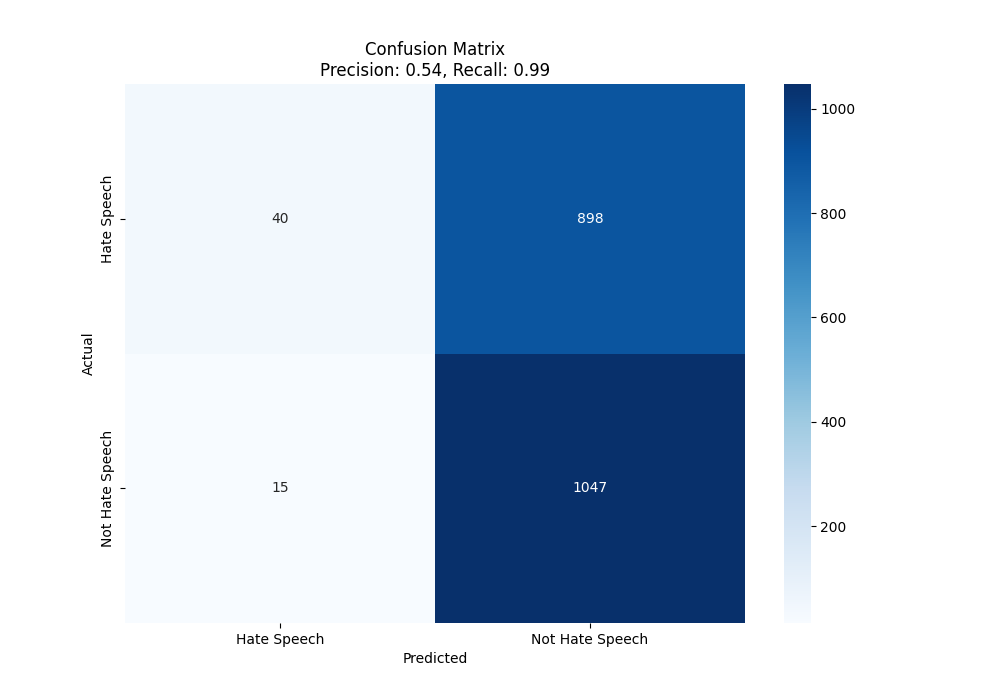
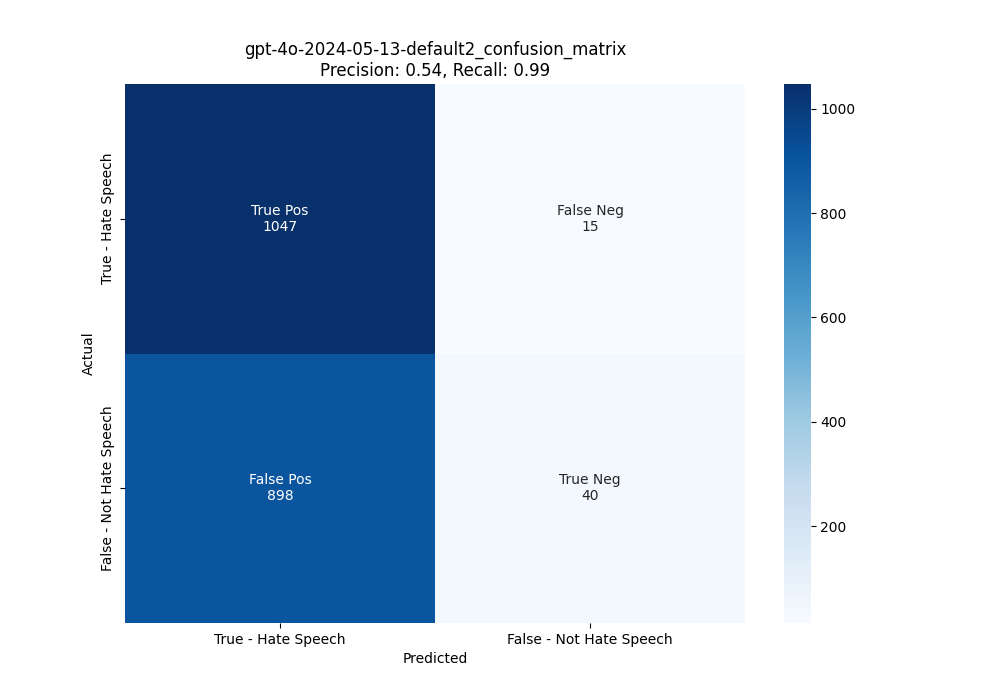
update confusion matrix for the better look

diff --git a/main.py b/main.py
@@ -18,6 +18,7 @@ from sklearn.metrics import confusion_matrix
 from sklearn.metrics import precision_score, recall_score
 import matplotlib.pyplot as plt
 import seaborn as sns
+import numpy as np
 
 
 def format_timespan(seconds):
@@ -168,7 +169,7 @@ def evaluate(csv_path="results/[HateSpeech] gpt-4o-mini-2024-08-13.csv"):
 
     plot_path = f"results/{MODEL_NAME}-{MODEL_VERSION}_confusion_matrix.png"
     # Plot the confusion matrix
-    plot_confusion_matrix(plot_path, precision, recall, cm, labels=['Hate Speech', 'Not Hate Speech'])
+    plot_confusion_matrix(plot_path, precision, recall, cm, labels=['True - Hate Speech', 'False - Not Hate Speech'])
 
     
     category_big_count = result.groupby(['category_big']).agg(
@@ -182,12 +183,20 @@ def evaluate(csv_path="results/[HateSpeech] gpt-4o-mini-2024-08-13.csv"):
     category_count.to_csv(f"evals/[HateSpeech] eval-{filename}.csv", index=False)
     category_big_count.to_csv(f"evals/[HateSpeech] eval-avg-{filename}.csv", index=False)
 
-def plot_confusion_matrix(plot_path, precision, recall, cm, labels):
+def plot_confusion_matrix(plot_path,  precision, recall, cm, labels):
+    group_name = ['True Pos','False Neg','False Pos','True Neg']
+    group_counts = ["{0:0.0f}".format(value) for value in
+                    cm.flatten()]
+    maplabels = [f"{v1}\n{v2}" for v1, v2 in
+            zip(group_name,group_counts)]
+    maplabels = np.asarray(maplabels).reshape(2,2)
     plt.figure(figsize=(10, 7))
-    sns.heatmap(cm, annot=True, fmt='d', cmap='Blues', xticklabels=labels, yticklabels=labels)
+    sns.heatmap(cm, annot=maplabels, fmt='', cmap='Blues', xticklabels=labels, yticklabels=labels)
+    #sns.heatmap(cm, annot=True, fmt='d', cmap='Blues', xticklabels=labels, yticklabels=labels)
     plt.xlabel('Predicted')
     plt.ylabel('Actual')
-    plt.title(f'Confusion Matrix\nPrecision: {precision:.2f}, Recall: {recall:.2f}')
+    plot_title = plot_path.replace("results/", "").replace(".png", "")
+    plt.title(f'{plot_title}\nPrecision: {precision:.2f}, Recall: {recall:.2f}')
     plt.savefig(plot_path)
     plt.close()
 

diff --git a/README.md b/README.md
@@ -67,7 +67,11 @@ The code is reused https://github.com/daekeun-ml/evaluate-llm-on-korean-dataset,
 |**Hate Speech**    |-                                        |**390**           |**0.416**        |**40**            |**0.043**      |**7**             |**0.007**        |
 |**Not Hate Speech**|-                                        |**134**           |**0.126**        |**15**            |**0.014**        |**1**             |**0.001**        |
 
+![Confusion Matrix of the gpt-4o content filtering - low](results/gpt-4o-2024-05-13-low_confusion_matrix.png)
+
 ![Confusion Matrix of the gpt-4o content filtering - default2](results/gpt-4o-2024-05-13-default2_confusion_matrix.png)
+
+![Confusion Matrix of the gpt-4o content filtering - high](results/gpt-4o-2024-05-13-high_confusion_matrix.png)
 
 ### GPT-4o-mini
 
@@ -121,7 +125,11 @@ The code is reused https://github.com/daekeun-ml/evaluate-llm-on-korean-dataset,
 |**Hate Speech**    |-                                        |**562**          |**0.599** |**54**      |**0.058** |**13**            |**0.014** |
 |**Not Hate Speech**|-                                        |**257**          |**0.242** |**23**      |**0.022** |**3**             |**0.003** |
 
+![Confusion Matrix of the gpt-4o-mini content filtering - Low](results/gpt-4o-mini-2024-07-18-low_confusion_matrix.png)
+
 ![Confusion Matrix of the gpt-4o-mini content filtering - default2](results/gpt-4o-mini-2024-07-18-default2_confusion_matrix.png)
+
+![Confusion Matrix of the gpt-4o-mini content filtering - High](results/gpt-4o-mini-2024-07-18-high_confusion_matrix.png)
 
 ### Example of filtered contents with gpt-4o-mini using custom low threshold
 You can review the test results in the Results folder to see exactly what types of content were filtered. Here is an example of filtered content in the system log. 
